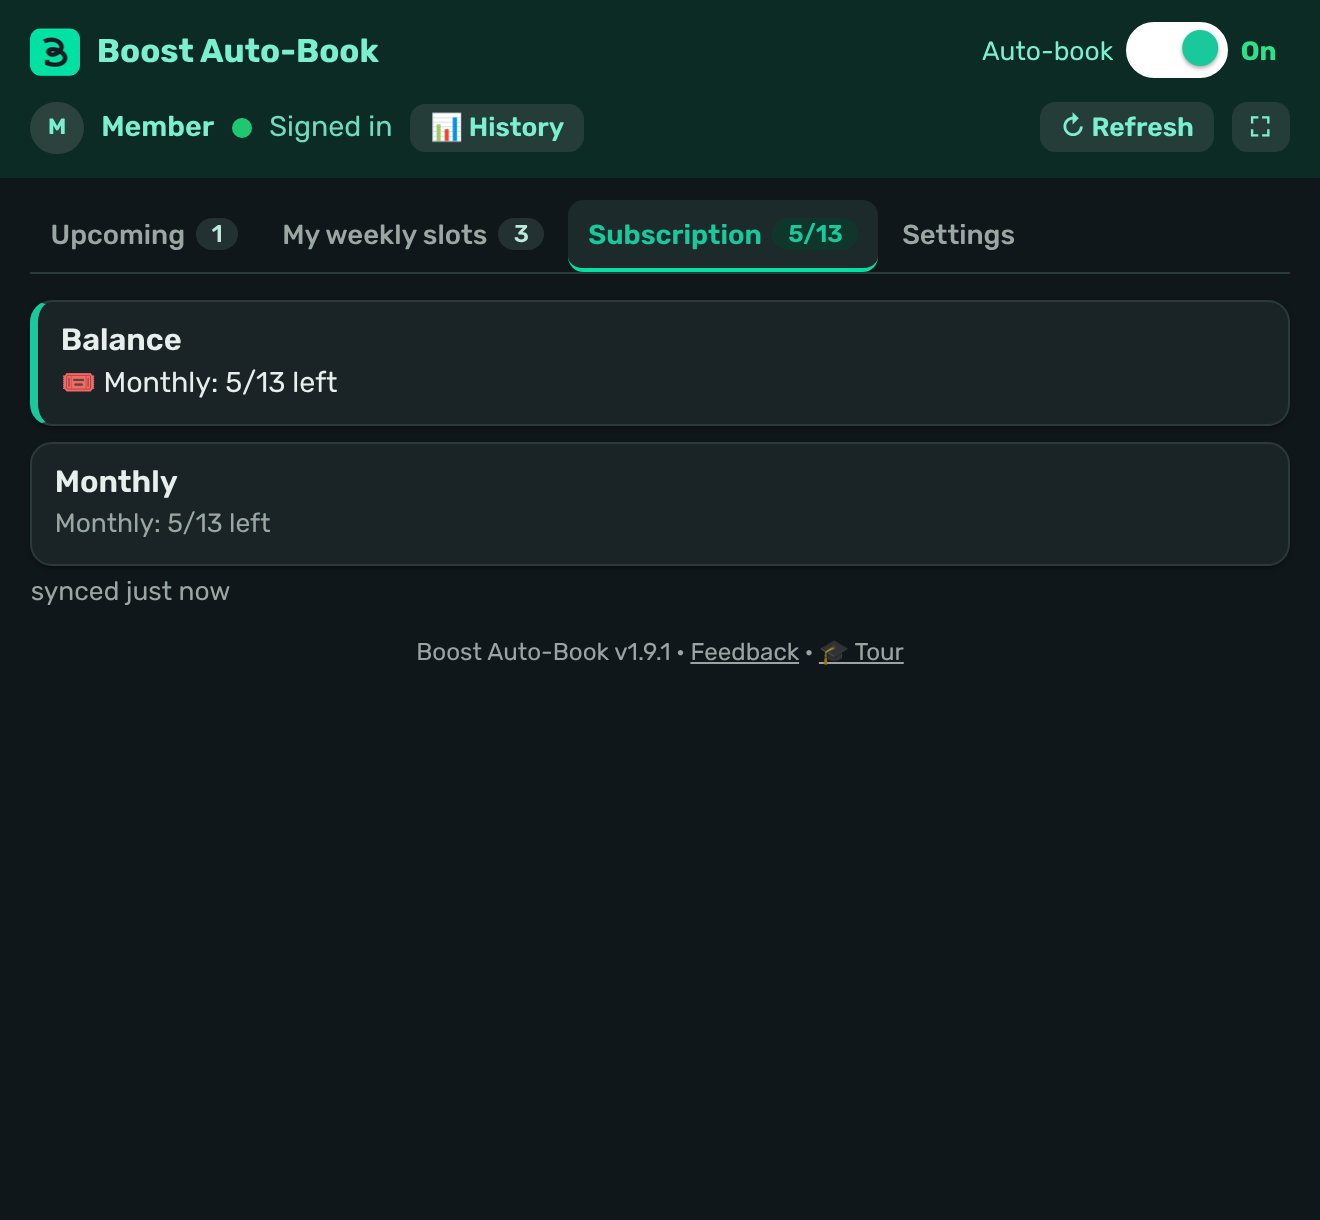
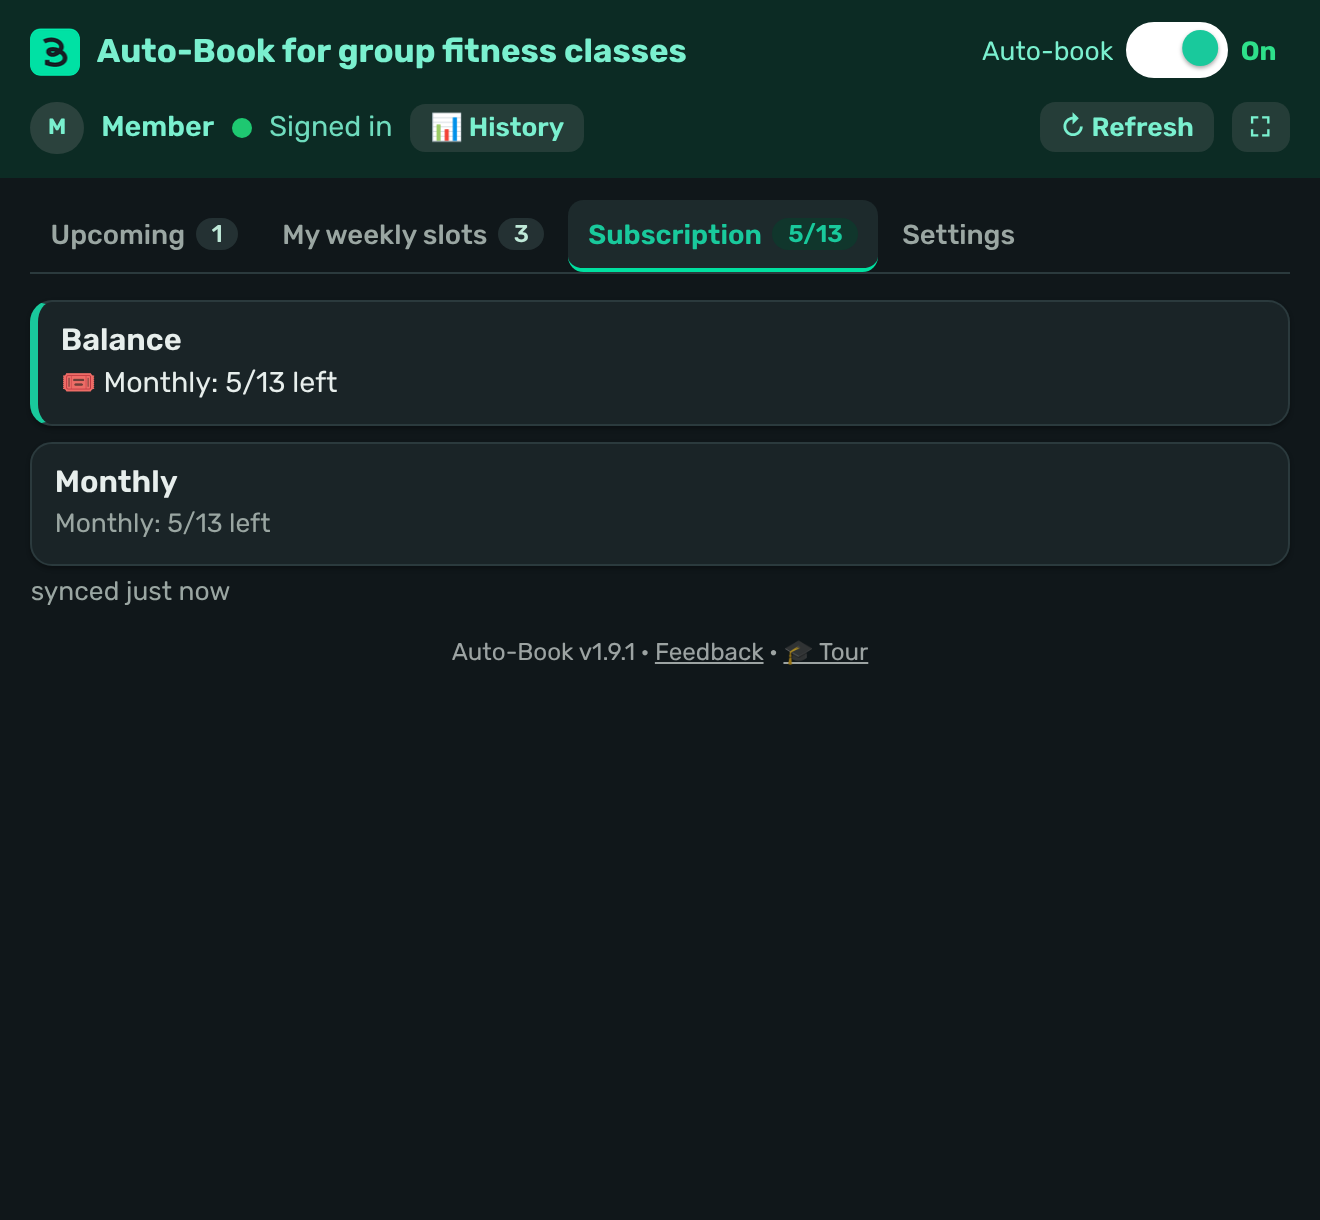
Rename the extension off a trademark it has no claim to
The manifest called it "Boost Auto-Book (Training Harmony)" — the name of a
studio this project has nothing to do with, on a listing that would read as
official. The Chrome Web Store rejects a listing whose name implies
affiliation with another product, and a trademark complaint can pull a
published one with no warning. This was the first of two blockers on the store
draft in notes/.

The risk lives in the name field, not in prose: "Boost Auto-Book" appears ~90
times and "Training Harmony" ~37 across the repo, and almost all of it is
nominative use — descriptive README copy, the studio identifier in
classtypes.js, licence headers — which is legitimate and untouched. Changed
instead: manifest name and default_title, the popup's h1, title and footer,
history.html's title, and app.webmanifest, whose short_name was literally
"Boost". The repo, the site and this changelog keep the project's own name, so
no URLs or badges break.

Verified the long name fits the popup header without wrapping or colliding with
the auto-book toggle, by rendering it.

Also fixed, surfaced by the harness's untranslated-key check while re-rendering:
applyLang() wrote t()'s output unconditionally, and t() returns the key itself
when a string is missing. tour_replay lives in walkthrough.js's table rather
than the popup's, so every language switch stamped the raw key over the Tour
link's label until walkthrough re-localised it — and permanently if walkthrough
[…]

Changed region(s): [[0.0621, 0.0311, 0.528, 0.0623], [0.3106, 0.5295, 0.6833, 0.5607]]

diff --git a/boost-autobook/popup.html b/boost-autobook/popup.html
@@ -2,10 +2,10 @@
 <html lang="en">
 <head>
 <meta charset="UTF-8">
-<title>Boost Auto-Book</title>
+<title>Auto-Book</title>
 <meta name="theme-color" content="#00e0a0">
 <meta name="mobile-web-app-capable" content="yes">
-<meta name="apple-mobile-web-app-title" content="Boost Auto-Book">
+<meta name="apple-mobile-web-app-title" content="Auto-Book">
 <link rel="manifest" href="app.webmanifest">
 <link rel="icon" type="image/png" sizes="192x192" href="icons/appicon192.png">
 <link rel="icon" type="image/png" sizes="512x512" href="icons/appicon512.png">
@@ -343,7 +343,7 @@
 <body>
   <header>
     <div class="hdr-top">
-      <h1><img src="icons/icon48.png" width="22" height="22" alt="" style="border-radius:5px;display:block;">Boost Auto-Book</h1>
+      <h1><img src="icons/icon48.png" width="22" height="22" alt="" style="border-radius:5px;display:block;">Auto-Book for group fitness classes</h1>
       <span class="right">
         <span class="sw"><span data-i18n="autobook">Auto-book</span>
           <label class="switch"><input type="checkbox" id="autoBook"><span class="slider"></span></label>
@@ -502,7 +502,7 @@
 
     <div id="updateBanner" style="display:none; margin:10px 0 0; padding:8px 12px; border-radius:10px; background:var(--green-deep); color:#fff; font-size:12px; text-align:center;"></div>
     <div style="text-align:center; padding:10px 0 6px; font-size:11px; opacity:.65;">
-      Boost Auto-Book <span id="verLabel"></span><span id="feedbackSep"> · </span><a id="feedbackLink" href="#" target="_blank" rel="noopener" style="color:inherit;">Feedback</a>
+      Auto-Book <span id="verLabel"></span><span id="feedbackSep"> · </span><a id="feedbackLink" href="#" target="_blank" rel="noopener" style="color:inherit;">Feedback</a>
       <span> · </span><a id="tourReplay" href="#" style="color:inherit;" data-i18n="tour_replay">🎓 Tour</a>
     </div>
   </div>

diff --git a/boost-autobook/popup.js b/boost-autobook/popup.js
@@ -564,8 +564,18 @@ function applyLang(lang) {
   LANG = I18N[lang] ? lang : "en";
   document.documentElement.lang = LANG;
   document.documentElement.dir = RTL_LANGS.includes(LANG) ? "rtl" : "ltr";
-  document.querySelectorAll("[data-i18n]").forEach(el => { el.textContent = t(el.getAttribute("data-i18n")); });
-  document.querySelectorAll("[data-i18n-title]").forEach(el => { el.title = t(el.getAttribute("data-i18n-title")); });
+  // t() returns the key itself when there is no translation. Some keys on this
+  // page belong to walkthrough.js's table, not ours (tour_replay), so writing
+  // t() blindly stamps a raw identifier over the markup default and leaves it
+  // there until walkthrough re-localises - or forever, if it failed to load.
+  document.querySelectorAll("[data-i18n]").forEach(el => {
+    const k = el.getAttribute("data-i18n"), v = t(k);
+    if (v !== k) el.textContent = v;
+  });
+  document.querySelectorAll("[data-i18n-title]").forEach(el => {
+    const k = el.getAttribute("data-i18n-title"), v = t(k);
+    if (v !== k) el.title = v;
+  });
   if (self.MusclePanel) { MusclePanel.setLang(LANG); renderBodyPref(); }
   applyViewToggleUI("upcoming"); applyViewToggleUI("slots");
   if ($("checkNow")) $("checkNow").textContent = t("checkNow");

diff --git a/boost-autobook/history.html b/boost-autobook/history.html
@@ -3,7 +3,7 @@
 <head>
 <meta charset="UTF-8">
 <meta name="viewport" content="width=device-width, initial-scale=1, viewport-fit=cover">
-<title>Boost Auto-Book — History</title>
+<title>Auto-Book — History</title>
 <meta name="theme-color" content="#00e0a0">
 <link rel="icon" type="image/png" sizes="192x192" href="icons/appicon192.png">
 <link rel="preconnect" href="https://fonts.googleapis.com">

diff --git a/scripts/screenshots/render.js b/scripts/screenshots/render.js
@@ -95,7 +95,7 @@ ${fs.readFileSync(path.join(HERE, "fixtures.js"), "utf8")}
   window.chrome = {
     runtime: {
       sendMessage: (msg, cb) => cbOrPromise(RESP(msg), cb),
-      getManifest: () => ({ version: "1.9.1", name: "Boost Auto-Book" }),
+      getManifest: () => ({ version: "1.9.1", name: "Auto-Book for group fitness classes" }),
       getURL: (p) => p,
       lastError: null,
     },

diff --git a/CHANGELOG.md b/CHANGELOG.md
@@ -6,6 +6,26 @@ Format: [Keep a Changelog](https://keepachangelog.com/) · Versioning: [SemVer](
 
 ## [Unreleased]
 
+### Changed
+- **The extension is now called "Auto-Book for group fitness classes".** It was
+  "Boost Auto-Book (Training Harmony)", which names a studio this project has
+  nothing to do with and reads as official. The Chrome Web Store rejects a
+  listing whose *name* implies affiliation with another product, and a
+  trademark complaint can pull a published one without warning. Naming BoostApp
+  and the studio in the description is nominative use and stays. The repo, this
+  changelog and the site keep "Boost Auto-Book" as the project's own name.
+  In-product: the popup header, its title, the toolbar tooltip and
+  `app.webmanifest` (whose `short_name` was literally "Boost").
+
+### Fixed
+- **A missing translation could leave a raw key on screen.** `t()` returns the
+  key itself when a string is absent, and `applyLang()` wrote that straight into
+  the element — so `tour_replay`, which lives in `walkthrough.js`'s table rather
+  than the popup's, replaced the Tour link's label on every language switch and
+  stayed there until walkthrough re-localised. If walkthrough had failed to
+  load, it would have stayed forever. `applyLang()` now leaves the markup
+  default in place when it has no translation of its own.
+
 ### Removed
 - **The standalone history bookmarklet** (`boost-autobook/standalone/`). It was
   an experiment in offering the history dashboard to people who had not

diff --git a/scripts/screenshots/README.md b/scripts/screenshots/README.md
@@ -36,7 +36,8 @@ headless browser:
 
 **The `chrome.*` APIs.** All 33 of the popup's commands go through a single
 `sendMessage` call (`popup.js`), so the shim in `render.js` is one switch
-statement. `chrome.storage.local` is a plain object.
+statement. `chrome.storage.local` is a plain object. This is the same trick
+`boost-autobook/standalone/build_bookmarklet.py` plays on `history.js`.
 
 **Rubik.** `popup.html` pulls it from Google Fonts. The harness inlines the
 same four weights from `fonts/` as data URIs and blocks the network request, so
